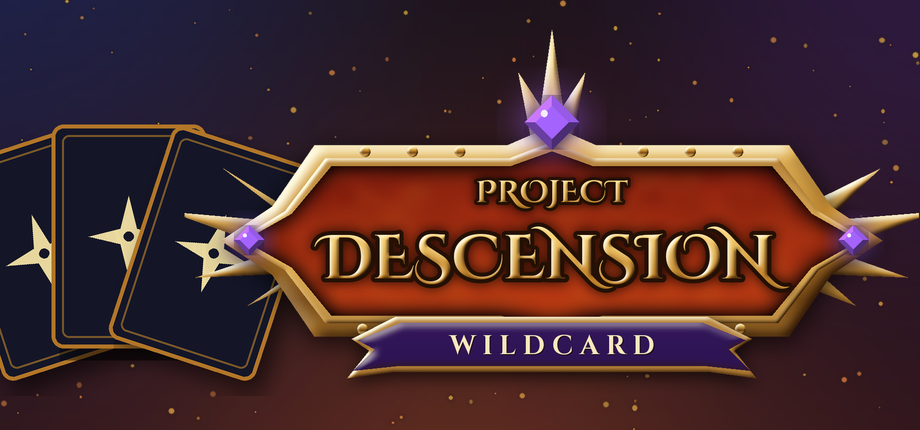
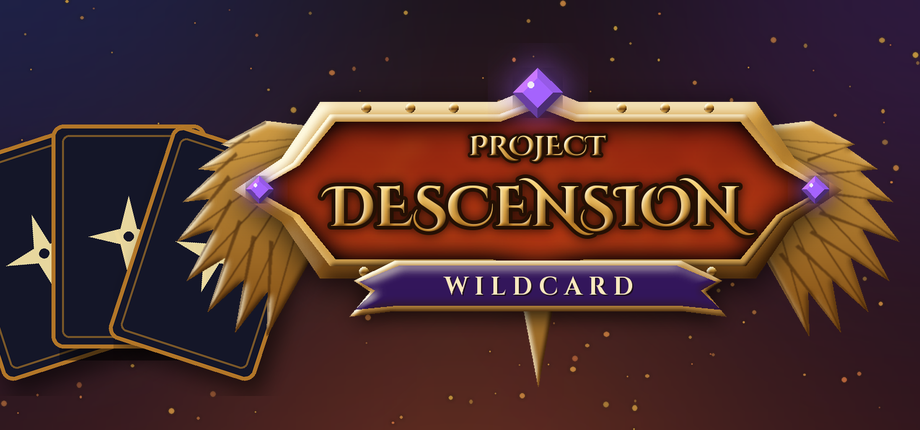
Steam art: wings hang down (Descension)
Feathered gold wings fold down from each end of the plate, plus a blade
pointing down under the ribbon. Plate shrunk inside the canvas so the wings fit.

Claude-Session: https://claude.ai/code/session_014MUwBHuZUaiNx6uCAhXtUs

diff --git a/launcher/steam-art/emblem.py b/launcher/steam-art/emblem.py
@@ -106,31 +106,44 @@ def emblem(width, fonts):
     H = int(W * 0.62)
     img = Image.new("RGBA", (W, H), (0, 0, 0, 0))
     cx, cy = W / 2, H * 0.47
-    pw, ph = W * 0.76, H * 0.42
-    point = W * 0.07
+    K = 0.74  # plate size within the canvas, leaving room for the wings
+    pw, ph = W * 0.76 * K, H * 0.42 * K
+    point = W * 0.07 * K
     rng = random.Random(7)
 
-    # blades behind the plate: original wing/blade fan
-    blades = Image.new("L", (W, H), 0)
-    d = ImageDraw.Draw(blades)
+    # drooping wings behind the plate: feathers fan out and DOWN from each end (Descension, not Ascension)
+    wings = Image.new("L", (W, H), 0)
+    wing_shade = Image.new("L", (W, H), 0)
+    d = ImageDraw.Draw(wings)
+    ds = ImageDraw.Draw(wing_shade)
+    # angle below horizontal, length, width: short at the top, longest hanging lowest, like a folded-down wing
+    feathers = [(4, 0.15, 0.030), (15, 0.19, 0.032), (26, 0.23, 0.034), (37, 0.27, 0.036), (48, 0.30, 0.037),
+                (58, 0.32, 0.037), (67, 0.33, 0.036), (75, 0.32, 0.034)]
     for side in (-1, 1):
-        for i, (ang, length, thick) in enumerate([(-38, 0.20, 0.030), (-14, 0.24, 0.034), (12, 0.20, 0.030),
-                                                   (34, 0.15, 0.026)]):
+        root_x, root_y = cx + side * pw * 0.42, cy - ph * 0.30
+        for i, (ang, length, thick) in enumerate(reversed(feathers)):
             a = math.radians(ang)
-            bx = cx + side * pw * 0.38
-            by = cy + ph * 0.05
-            tipx = bx + side * math.cos(a) * W * length
-            tipy = by + math.sin(a) * W * length * 0.9
-            nx, ny = -math.sin(a) * W * thick, math.cos(a) * W * thick
-            d.polygon([(bx - nx, by - ny), (tipx, tipy), (bx + nx, by + ny)], fill=255)
-    # crest blades above
-    for ang, length in ((-90, 0.17), (-112, 0.12), (-68, 0.12)):
-        a = math.radians(ang)
-        bx, by = cx, cy - ph * 0.45
-        tipx, tipy = bx + math.cos(a) * W * length, by + math.sin(a) * W * length
-        nx, ny = -math.sin(a) * W * 0.024, math.cos(a) * W * 0.024
-        d.polygon([(bx - nx, by - ny), (tipx, tipy), (bx + nx, by + ny)], fill=255)
-    img.alpha_composite(metal(blades, [(250, 226, 160), (200, 146, 60), (110, 66, 20)], bevel=W // 220))
+            dx, dy = side * math.cos(a), math.sin(a)  # positive dy points down the image
+            length, thick = length * K, thick * K
+            tip = (root_x + dx * W * length, root_y + dy * W * length * 0.95)
+            nx, ny = -dy * W * thick, dx * W * thick
+            mid = (root_x + dx * W * length * 0.55, root_y + dy * W * length * 0.55 * 0.95)
+            outline = [(root_x - nx * 0.5, root_y - ny * 0.5), (mid[0] - nx, mid[1] - ny), tip,
+                       (mid[0] + nx, mid[1] + ny), (root_x + nx * 0.5, root_y + ny * 0.5)]
+            d.polygon(outline, fill=255)
+            # dark gap between feathers so each reads separately
+            ds.line([(root_x, root_y), tip], fill=255, width=max(2, W // 500))
+            ds.polygon([(mid[0] + nx * 0.85, mid[1] + ny * 0.85), tip, (mid[0] + nx, mid[1] + ny)], fill=200)
+    wing_metal = metal(wings, [(250, 230, 170), (214, 162, 72), (140, 88, 26), (90, 52, 14)], bevel=W // 260)
+    grooves = Image.new("RGBA", (W, H), (60, 30, 6, 0))
+    grooves.putalpha(ImageChops.multiply(wing_shade, wings).filter(ImageFilter.GaussianBlur(1)).point(lambda v: int(v * 0.7)))
+    wing_metal.alpha_composite(grooves)
+    img.alpha_composite(wing_metal)
+    # a single blade pointing down beneath the ribbon
+    tipd = Image.new("L", (W, H), 0)
+    ImageDraw.Draw(tipd).polygon([(cx - W * 0.03 * K, cy + ph * 0.5), (cx, cy + ph * 0.5 + H * 0.26 * K),
+                                  (cx + W * 0.03 * K, cy + ph * 0.5)], fill=255)
+    img.alpha_composite(metal(tipd, [(250, 226, 160), (200, 146, 60), (110, 66, 20)], bevel=W // 300))
 
     # outer plate
     pts = plate_points(cx, cy, pw, ph, point)
@@ -145,11 +158,12 @@ def emblem(width, fonts):
     panel = inset(pts, cx, cy, 0.93, 0.78)
     rim_mask = shape((W, H), lambda dd: dd.polygon(rim, fill=255))
     img.alpha_composite(metal(rim_mask, [(120, 70, 20), (230, 180, 90), (90, 50, 14)], bevel=W // 300))
-    rivet = metal(shape((W // 60, W // 60), lambda dd: dd.ellipse((1, 1, W // 60 - 2, W // 60 - 2), fill=255)),
+    rv = int(W / 60 * K)
+    rivet = metal(shape((rv, rv), lambda dd: dd.ellipse((1, 1, rv - 2, rv - 2), fill=255)),
                   bevel=max(1, W // 600))
     ring = inset(pts, cx, cy, 0.985, 0.93)
     for (x0, y0), (x1, y1) in zip(ring, ring[1:] + ring[:1]):
-        steps = int(math.hypot(x1 - x0, y1 - y0) // (W * 0.06))
+        steps = int(math.hypot(x1 - x0, y1 - y0) // (W * 0.06 * K))
         for k in range(1, steps):
             x, y = x0 + (x1 - x0) * k / steps, y0 + (y1 - y0) * k / steps
             img.alpha_composite(rivet, (int(x - rivet.width / 2), int(y - rivet.height / 2)))
@@ -170,16 +184,16 @@ def emblem(width, fonts):
     img.alpha_composite(ember)
 
     # gems: crest and the two points
-    g = gem(int(W * 0.075), (150, 90, 230))
-    img.alpha_composite(g, (int(cx - g.width / 2), int(cy - ph * 0.62 - g.height / 2)))
-    sg = gem(int(W * 0.042), (150, 90, 230))
+    g = gem(int(W * 0.075 * K), (150, 90, 230))
+    img.alpha_composite(g, (int(cx - g.width / 2), int(cy - ph * 0.55 - g.height / 2)))
+    sg = gem(int(W * 0.042 * K), (150, 90, 230))
     for side in (-1, 1):
         x = cx + side * (pw / 2 + point * 0.45)
         img.alpha_composite(sg, (int(x - sg.width / 2), int(cy - sg.height / 2)))
 
     # text
     title_font = fonts["title"]
-    big = int(H * 0.2)
+    big = int(H * 0.2 * K)
     while True:
         line = gold_text("DESCENSION", ImageFont.truetype(title_font, big), max(3, big // 14))
         if line.width <= pw * 0.98:
@@ -190,7 +204,7 @@ def emblem(width, fonts):
     img.alpha_composite(line, (int(cx - line.width / 2), int(cy - line.height * 0.36)))
 
     # ribbon
-    rw, rh = pw * 0.56, H * 0.12
+    rw, rh = pw * 0.56, H * 0.12 * K
     ry = cy + ph * 0.5 + rh * 0.15
     tail = rw * 0.14
     ribbon_pts = [(cx - rw / 2, ry - rh / 2), (cx + rw / 2, ry - rh / 2), (cx + rw / 2 + tail, ry - rh * 0.1),

diff --git a/launcher/steam-art/make_steam_art.py b/launcher/steam-art/make_steam_art.py
@@ -187,8 +187,8 @@ def main():
     img = background(w, h, 2)
     fan(img, (w * 0.14, h * 0.55), int(h * 0.36), 3, 18, h * 0.04, s)
     e = logo(int(w * 0.8))
-    e = e.resize((int(e.width * h * 0.86 / e.height), int(h * 0.86)), Image.LANCZOS)
-    img.alpha_composite(e, (int(w * 0.6 - e.width / 2), (h - e.height) // 2))
+    e = e.resize((int(e.width * h * 0.8 / e.height), int(h * 0.8)), Image.LANCZOS)
+    img.alpha_composite(e, (int(w * 0.585 - e.width / 2), (h - e.height) // 2))
     save(img, "header.png", (920, 430))
 
     w, h = 1920 * s, 620 * s  # hero: no text, Steam puts the logo over it
